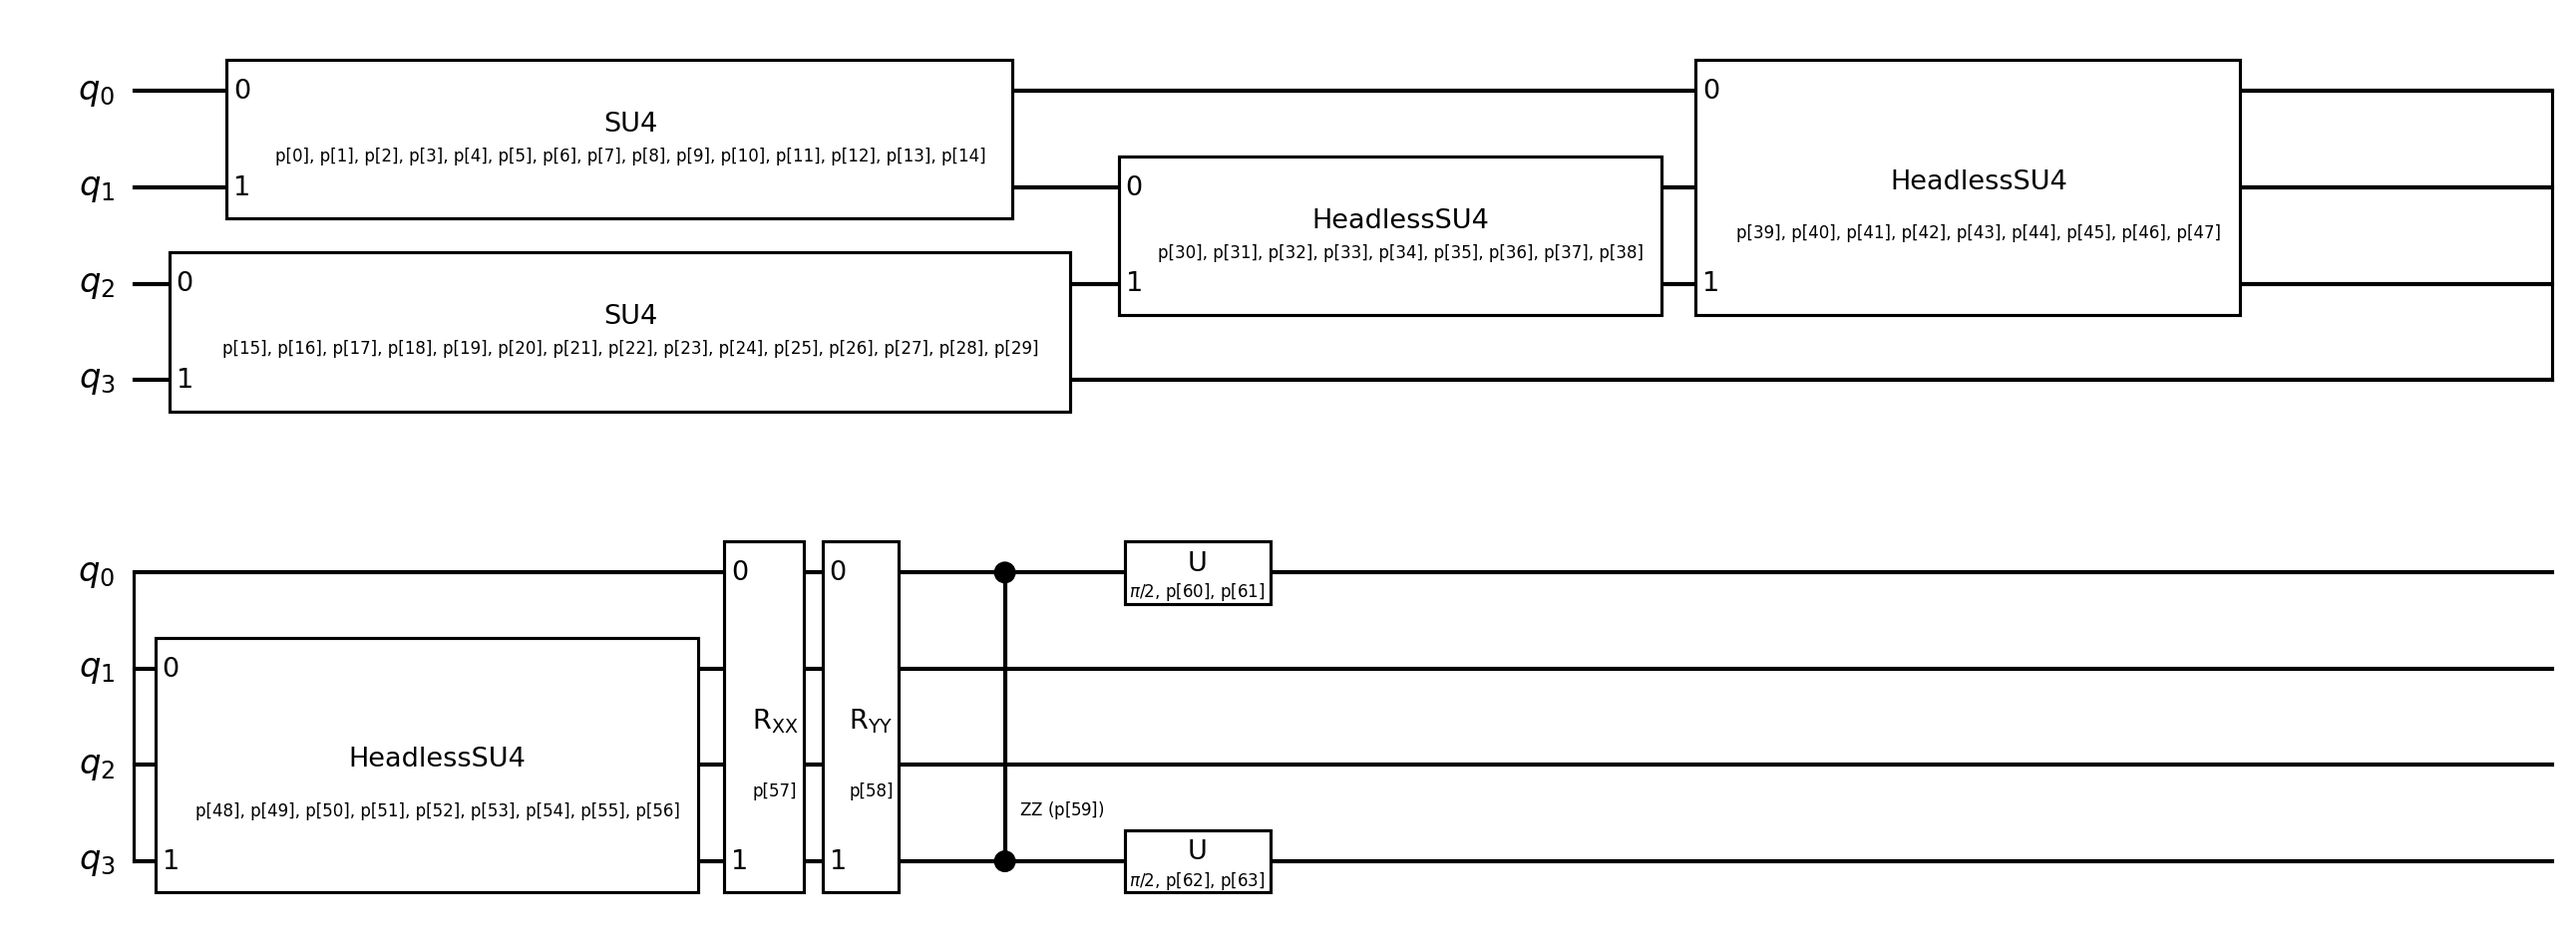
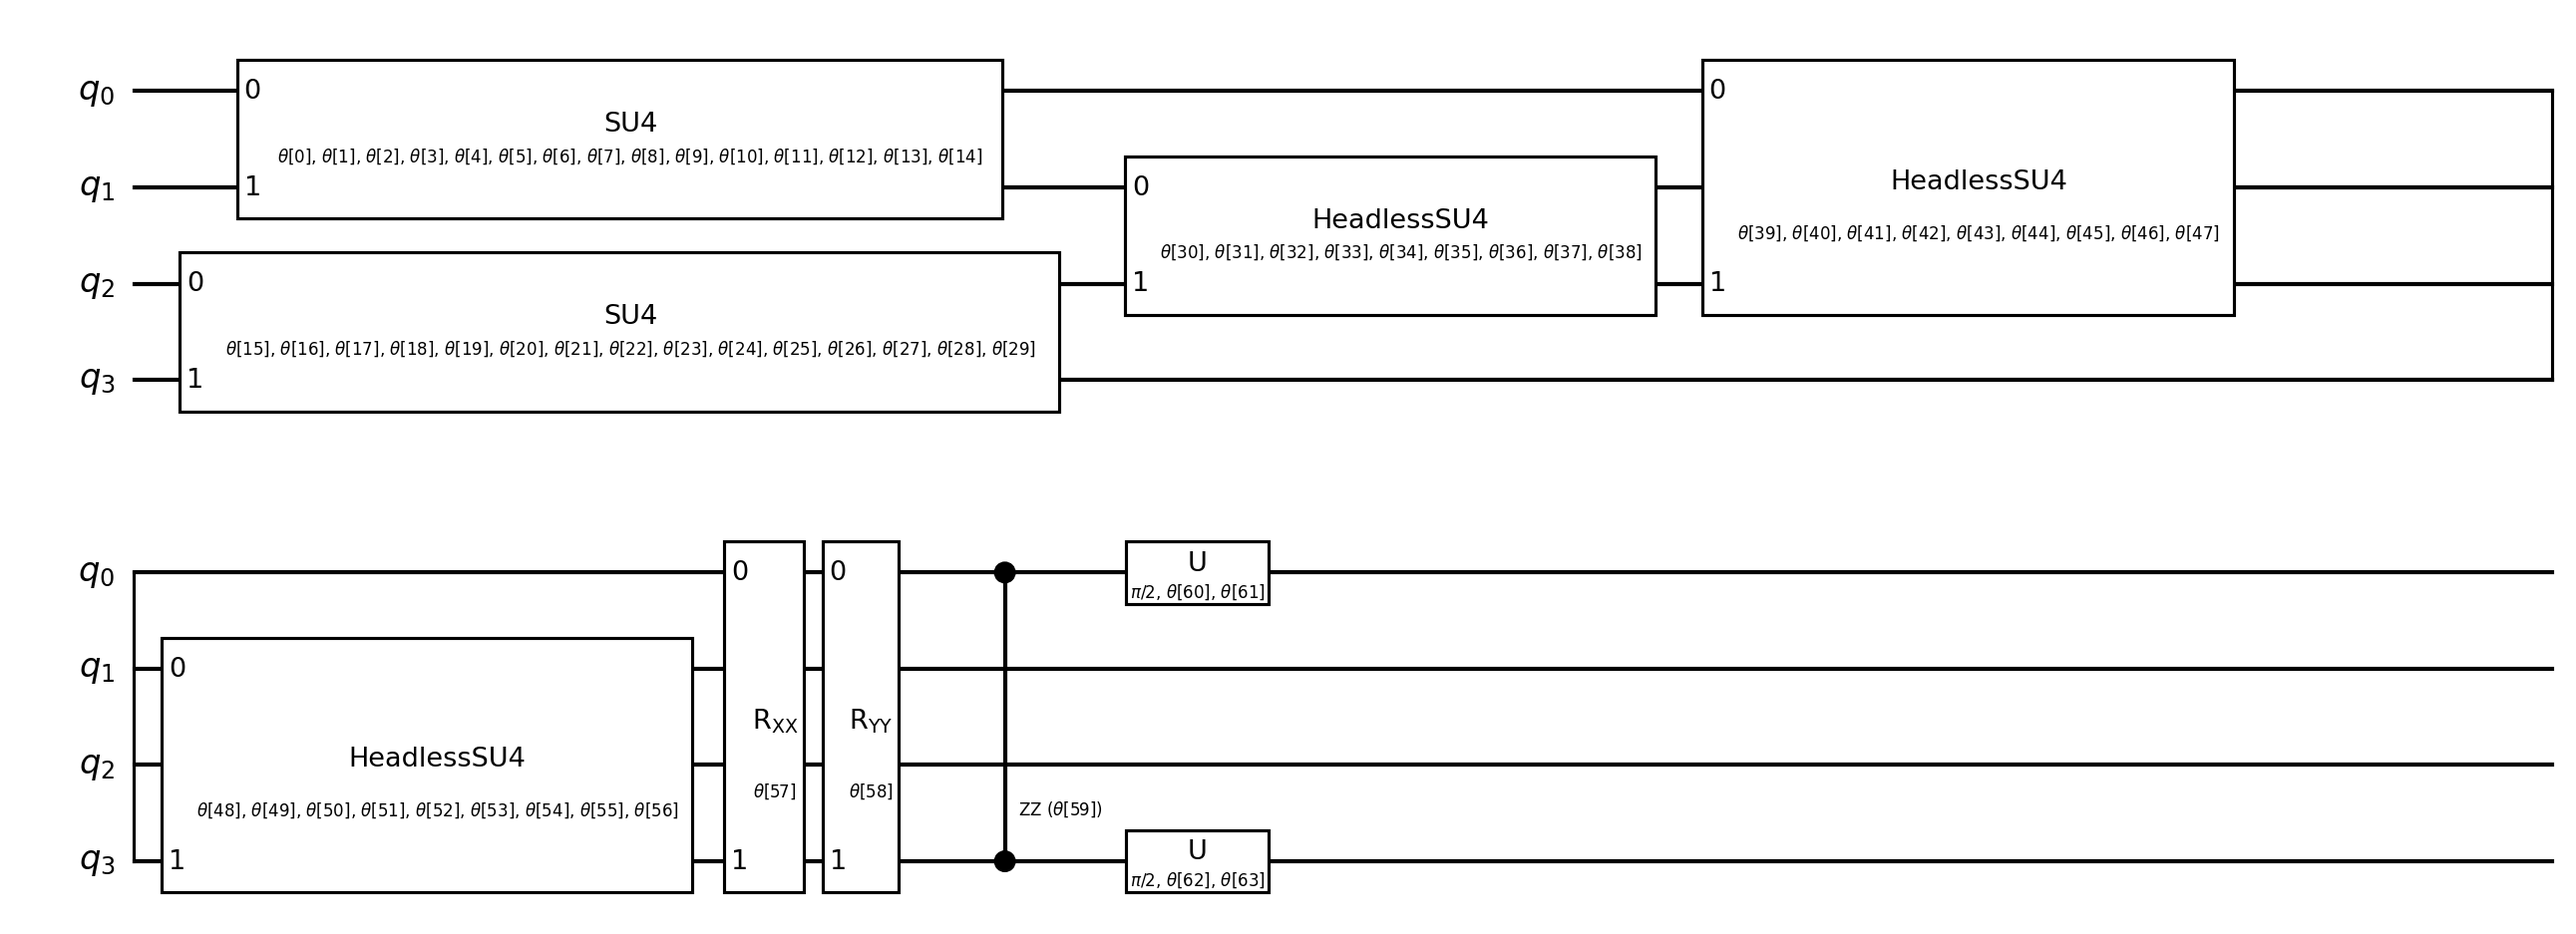
updates

diff --git a/Models/PatchEncoding/qk/PatchEmbedding.py b/Models/PatchEncoding/qk/PatchEmbedding.py
@@ -126,6 +126,67 @@ def create8x8ReUploading(
         circ.barrier()
     return circ
 
+def createPQC100(
+        params: QiskitParameter
+)->QuantumCircuit:
+    """
+    Creates a 5-qubit circuit that has 100 parameters.
+    Args:
+        params: 100-element list of parameters
+
+    Returns:
+        A 5-qubit circuit that has 100 parameters, "PQC100"
+    """
+    circ = QuantumCircuit(5, name='PQC100')
+    circ.u(params[0], params[1], params[2], 0)
+    circ.u(params[3], params[4], params[5], 1)
+    circ.u(params[6], params[7], params[8], 2)
+    circ.u(params[9], params[10], params[11], 3)
+    circ.u(params[12], params[13], params[14], 4)
+    circ.append(createHeadlessSU4(params[15:24]).to_instruction(), [0,1])
+    circ.append(createHeadlessSU4(params[24:33]).to_instruction(), [2,3])
+    circ.append(createHeadlessSU4(params[33:42]).to_instruction(), [1,2])
+    circ.append(createHeadlessSU4(params[42:51]).to_instruction(), [3,4])
+    circ.append(createHeadlessSU4(params[51:60]).to_instruction(), [0,2])
+    circ.append(createHeadlessSU4(params[60:69]).to_instruction(), [1,3])
+    circ.append(createHeadlessSU4(params[69:78]).to_instruction(), [2,4])
+    circ.append(createHeadlessSU4(params[78:87]).to_instruction(), [0,3])
+    circ.append(createHeadlessSU4(params[87:96]).to_instruction(), [1,4])
+    circ.rxx(params[96], 0, 4)
+    circ.ry(params[97], 0)
+    circ.ry(params[98], 4)
+    circ.rzz(params[99], 0, 4)
+    return circ
+
+def create10x10Reuploading(
+        pixels: QiskitParameter,
+        encoding_params: QiskitParameter
+)->QuantumCircuit:
+    """
+    Creates a 5-qubit circuit that encodes 100 pixels into 5 qubits, with trainable parameters for data re-uploading.
+    Then followed by a chain of TailLessSU4 gates, from bottom up: 4->3, 3->2, 2->1, 1->0.
+    Each TailLessSU4 gate has 9 parameters.
+    Total number of trainable parameters: 36*L
+    Where L is the number of re-uploading layers.
+    Args:
+        pixels: 100-element list of parameters
+        encoding_params: 36*L-element list of parameters, where L is the number of data-reuploading repetitions
+
+    Returns:
+        A 5-qubit circuit that encodes 100 pixels into 5 qubits.
+    """
+    circ = QuantumCircuit(5, name='10x10ReUploading')
+    layers = len(encoding_params)//36
+    for i in range(layers):
+        circ.append(createPQC100(pixels[0:100]).to_instruction(), [0,1,2,3,4])
+        circ.barrier()
+        circ.append(createTaillessSU4(encoding_params[0+36*i:9+36*i]).to_instruction(), [3,4])
+        circ.append(createTaillessSU4(encoding_params[9+36*i:18+36*i]).to_instruction(), [2,3])
+        circ.append(createTaillessSU4(encoding_params[18+36*i:27+36*i]).to_instruction(), [1,2])
+        circ.append(createTaillessSU4(encoding_params[27+36*i:36+36*i]).to_instruction(), [0,1])
+        circ.barrier()
+        circ.barrier()
+    return circ
 
 if __name__ == '__main__':
     pixel = ParameterVector('p', 4)
@@ -138,7 +199,7 @@ if __name__ == '__main__':
     circ2 = fourByFourPatchReupload(pixel2, encoding_param2)
     circ2.draw('mpl', filename='FourByFourPatchReupload.png', style='bw')
 
-    params = ParameterVector('p', 64)
+    params = ParameterVector('$\\theta$', 64)
     circ3 = createPQC64(params)
     circ3.draw('mpl', filename='PQC64.png', style='bw')
 
@@ -146,4 +207,13 @@ if __name__ == '__main__':
     encoding_param4 = ParameterVector('e', 27*2)
     circ4 = create8x8ReUploading(pixel4, encoding_param4)
     circ4.draw('mpl', filename='8x8ReUploading.png', style='bw')
+
+    params5 = ParameterVector('$\\theta$', 100)
+    circ5 = createPQC100(params5)
+    circ5.draw('mpl', filename='PQC100.png', style='bw')
+
+    pixel6 = ParameterVector('p', 100)
+    encoding_param6 = ParameterVector('e', 36*2)
+    circ6 = create10x10Reuploading(pixel6, encoding_param6)
+    circ6.draw('mpl', filename='10x10Reuploading.png', style='bw')
 
